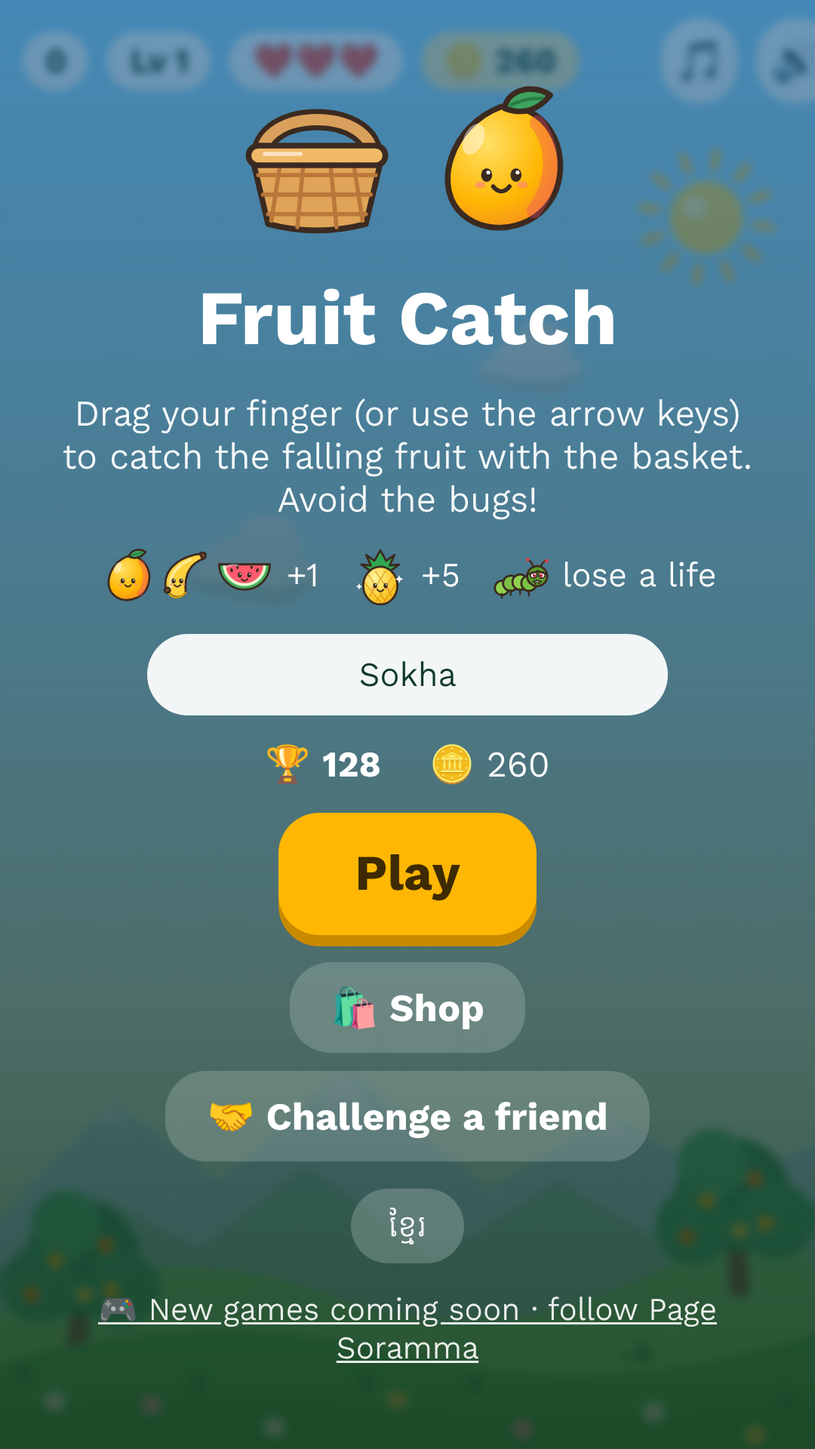
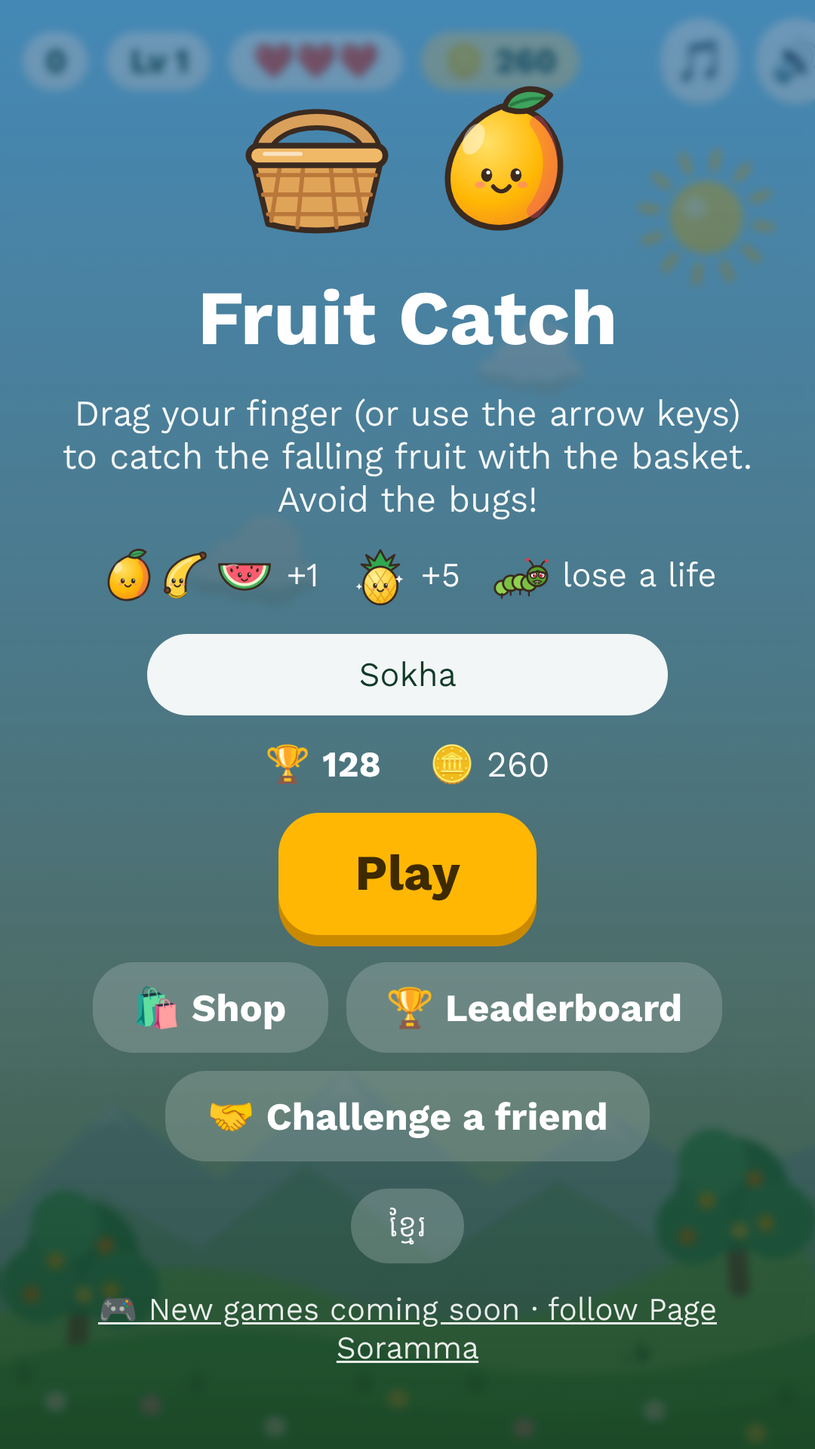
Fruit Catch: anonymous leaderboard (rank, level, score, players) with no names (#108)
* Fruit Catch: slower levels (5n(n-1) points), one new creature per level, forest from level 8

Claude-Session: https://claude.ai/code/session_01XaHKd3sUKa9XkETiTC26Do

* Fruit Catch: only the 3 newest creature kinds fall at the same time

Claude-Session: https://claude.ai/code/session_01XaHKd3sUKa9XkETiTC26Do

* Fruit Catch: smoother game, steadier speed-up, evening/night/storm moods with leaves, fireflies, rain, lightning and thunder

Claude-Session: https://claude.ai/code/session_01XaHKd3sUKa9XkETiTC26Do

* Fruit Catch: music tempo rises at every level (96 to 176 bpm)

Claude-Session: https://claude.ai/code/session_01XaHKd3sUKa9XkETiTC26Do

* Fruit Catch: faster mid-levels, rarer creatures at the start, fruit-shower and swarm waves, quicker music

Claude-Session: https://claude.ai/code/session_01XaHKd3sUKa9XkETiTC26Do

* Fruit Catch: only 6 kinds of creature; more of them the deeper you go

Claude-Session: https://claude.ai/code/session_01XaHKd3sUKa9XkETiTC26Do

* Fruit Catch: creatures fall straight and in groups, snake at 280 and dragon at 450 points, clearer drawings, cloudy sky before the storm

Claude-Session: https://claude.ai/code/session_01XaHKd3sUKa9XkETiTC26Do

* Fruit Catch: anonymous leaderboard (rank, level, score, number of players; no names), own place after each game

Claude-Session: https://claude.ai/code/session_01XaHKd3sUKa9XkETiTC26Do

---------

Changed region(s): [[0.0917, 0.6562, 0.8861, 0.75]]

diff --git a/game/public/fruit/index.html b/game/public/fruit/index.html
@@ -52,6 +52,7 @@ canvas{flex:1;width:100%;display:block;position:relative;z-index:2}
 #wrap.playing .sw,#wrap.playing .sun .rays{animation:none}
 #wrap::after{content:"";position:absolute;inset:0;pointer-events:none;z-index:1;opacity:0;transition:opacity 1.5s;background:radial-gradient(ellipse at center,transparent 45%,#000a 100%)}
 #wrap.z2::after{opacity:.5}#wrap.z3::after{opacity:1}
+#tRank{white-space:pre-line}
 </style></head><body>
 <div id="wrap"><div class="cloud c1">☁</div><div class="cloud c2">☁</div><div class="cloud c3">☁</div>
 <div id="stars"></div><div id="moon"></div><div class="sun"><svg viewBox="0 0 80 80"><g class="rays" stroke="#ffc83d" stroke-width="4" stroke-linecap="round"><line x1="40" y1="6" x2="40" y2="14" transform="rotate(0 40 40)"/><line x1="40" y1="6" x2="40" y2="14" transform="rotate(30 40 40)"/><line x1="40" y1="6" x2="40" y2="14" transform="rotate(60 40 40)"/><line x1="40" y1="6" x2="40" y2="14" transform="rotate(90 40 40)"/><line x1="40" y1="6" x2="40" y2="14" transform="rotate(120 40 40)"/><line x1="40" y1="6" x2="40" y2="14" transform="rotate(150 40 40)"/><line x1="40" y1="6" x2="40" y2="14" transform="rotate(180 40 40)"/><line x1="40" y1="6" x2="40" y2="14" transform="rotate(210 40 40)"/><line x1="40" y1="6" x2="40" y2="14" transform="rotate(240 40 40)"/><line x1="40" y1="6" x2="40" y2="14" transform="rotate(270 40 40)"/><line x1="40" y1="6" x2="40" y2="14" transform="rotate(300 40 40)"/><line x1="40" y1="6" x2="40" y2="14" transform="rotate(330 40 40)"/></g><circle cx="40" cy="40" r="19" fill="#ffd84d"/><circle cx="34" cy="35" r="6" fill="#fff6c2" opacity=".7"/></svg></div>
@@ -73,9 +74,10 @@ canvas{flex:1;width:100%;display:block;position:relative;z-index:2}
 </svg>
 <canvas id="c"></canvas>
 <div id="hud"><span id="sc">0</span><span id="lv">Lv 1</span><span id="li">❤❤❤</span><span id="goal" class="hide">🎯</span><span id="coin">🪙 0</span><span class="sp"></span><button class="btn" id="bm" aria-label="music">🎵</button><button class="btn" id="bs" aria-label="sound">🔊</button><button class="btn" id="bp" aria-label="pause">⏸</button></div>
-<div class="ov" id="ovStart"><div id="logo" style="height:72px"></div><h1 id="tTitle"></h1><div class="chal hide" id="tChal"></div><p id="tHow"></p><div class="legend" id="tLeg"></div><input id="nm0" maxlength="14" autocomplete="off"><div>🏆 <b id="best">0</b> &nbsp;&nbsp; <span id="coinH">🪙 0</span></div><button class="big" id="go"></button><div class="row"><button class="big sec" id="shopB"></button><button class="big sec" id="chb"></button></div><button class="sm" id="lang"></button><div style="font-size:14px;opacity:.9" id="soon"></div></div>
+<div class="ov" id="ovStart"><div id="logo" style="height:72px"></div><h1 id="tTitle"></h1><div class="chal hide" id="tChal"></div><p id="tHow"></p><div class="legend" id="tLeg"></div><input id="nm0" maxlength="14" autocomplete="off"><div>🏆 <b id="best">0</b> &nbsp;&nbsp; <span id="coinH">🪙 0</span></div><button class="big" id="go"></button><div class="row"><button class="big sec" id="shopB"></button><button class="big sec" id="lb"></button><button class="big sec" id="chb"></button></div><button class="sm" id="lang"></button><div style="font-size:14px;opacity:.9" id="soon"></div></div>
 <div class="ov hide" id="ovShop"><h1 id="tShop"></h1><div id="coinS" class="chal"></div><svg id="tree" viewBox="0 0 340 250" xmlns="http://www.w3.org/2000/svg"></svg><div id="upg"></div><button class="big" id="shopBack"></button></div>
 <div class="ov hide" id="ovPause"><h1 id="tPause"></h1><button class="big" id="resume"></button><button class="sm" id="homeP"></button></div>
+<div class="ov hide" id="ovLB"><h1 id="tLB"></h1><p id="lbN"></p><div class="tabs" id="lbTabs"><button data-p="day"></button><button data-p="week"></button><button data-p="all"></button></div><ul id="lbList"></ul><p id="lbMe"></p><button class="big" id="lbBack"></button></div>
 <div class="ov hide" id="ovEnd"><h1 id="tOver"></h1><div class="score" id="fs">0</div><p id="tBest"></p><div id="tCoin"></div><div class="chal hide" id="tRes"></div><p id="tRank"></p><input id="nm" maxlength="14" autocomplete="off"><button class="big sec" id="cont" style="display:none"></button><button class="big" id="again"></button><div class="row" id="pms"></div><div class="row"><button class="sm" id="share"></button><button class="sm" id="homeB"></button></div></div>
 </div>
 <div id="toast"></div>
@@ -85,8 +87,8 @@ canvas{flex:1;width:100%;display:block;position:relative;z-index:2}
 function spr(k){if(!k)return null;if(SPC[k])return SPC[k];var i=SPR[k];return i&&i.complete&&i.naturalWidth?i:null}
 function ai(k){return'<img alt="" width="26" height="26" style="vertical-align:middle" src="'+artUrl(k)+'">'}
 window.addEventListener("DOMContentLoaded",function(){var l=document.getElementById("logo");if(l)l.innerHTML='<img alt="" height="72" style="margin:0 4px" src="'+artUrl("basket")+'"><img alt="" height="72" style="margin:0 4px" src="'+artUrl("mango")+'">'});
-var TX={km:{title:"ចាប់ផ្លែឈើ",how:"អូសម្រាមដៃ (ឬចុចព្រួញ) ឲ្យកញ្ជើ (ឡើងចុះបាន) ចាប់ផ្លែឈើដែលជ្រុះ។ ជៀសដង្កូវ!",ok:"+1",gold:"+5",bad:"បាត់ជីវិត",go:"ចាប់ផ្តើម",again:"លេងម្តងទៀត",pause:"ផ្អាក",resume:"បន្ត",over:"ចប់ហើយ!",best:"ពិន្ទុខ្ពស់បំផុត",newbest:"កំណត់ត្រាថ្មី! 🎉",share:"ចែករំលែកពិន្ទុ",st:"ពិន្ទុរបស់ខ្ញុំ {n} ក្នុងហ្គេម ចាប់ផ្លែឈើ! តើអ្នកអាចឈ្នះខ្ញុំបានទេ?",chal:"🏆 {n} ទទួលបាន {s} ពិន្ទុ! តើអ្នកឈ្នះបានទេ?",win:"🎉 អ្នកឈ្នះ {n}! ({s} ទល់នឹង {o})",tie:"🤝 ស្មើនឹង {n} ({s})!",lose:"{n} នៅមុនអ្នក {d} ពិន្ទុ។ សាកម្តងទៀត!",name:"ឈ្មោះរបស់អ្នក (សម្រាប់ប្រកួត)",friend:"មិត្តរបស់អ្នក",shop:"🛍 ហាង",shopT:"🛍 ហាងធ្វើឲ្យប្រសើរ (ប្រើបានតែ ១ ហ្គេម)",up_l:"ជីវិតបន្ថែម",up_b:"កញ្ចើធំជាង",up_m:"ម៉ាញេទិក",eff_l:"ចាប់ផ្តើមមាន +{n} ជីវិត",eff_b:"កញ្ចើធំជាង {n}%",eff_m:"ទាញផ្លែឈើជិតៗចូលកញ្ចើ",buy:"ទិញ",owned:"បានទិញរួច",need:"កាក់មិនគ្រប់",bought:"បានទិញ!",cont:"បន្តលេង ❤",ovc:"☁ មេឃស្រទុំហើយ... ភ្លៀងជិតមកដល់!",wv1:"🍍 ភ្លៀងផ្លែឈើ! ចាប់ឲ្យបានច្រើន!",wv2:"⚠ ហ្វូងសត្វមកហើយ! ប្រយ័ត្ន!",newc:"⚠ សត្វថ្មីមកដល់!",zn1:"🌅 ល្ងាចហើយ! ចូលព្រៃ ស្លឹកឈើជ្រុះ កាក់ ×{n}",zn2:"🌙 យប់ស្ងាត់! ព្រៃជ្រៅ ពស់មកហើយ កាក់ ×{n}",zn3:"⛈ ព្យុះផ្គរ! ព្រៃងងឹត នាគ (ខាត ២ ❤) កាក់ ×{n}",earned:"បានកាក់ +{n} 🪙",m0:"👏 ពូកែណាស់!",m1:"😎 ឈ្នះខ្ញុំបានទេ!",m2:"🔥 ប្រកួតម្តងទៀត?",m3:"🤝 សូមសំណាងល្អ!",msgline:"💬 {n}៖ {m}",pmHint:"ផ្ញើសារ៖",coinsHave:"កាក់របស់អ្នក",lb:"🏆 តារាងចំណាត់ថ្នាក់",chb:"🤝 ប្រកួតជាមួយមិត្ត",lbT:"តារាងចំណាត់ថ្នាក់",day:"ថ្ងៃនេះ",week:"សប្តាហ៍នេះ",all:"គ្រប់ពេល",back:"ត្រឡប់ក្រោយ",homeB:"🏠 ទំព័រដើម",rank:"🏅 អ្នកលេខ {d} ថ្ងៃនេះ · លេខ {w} សប្តាហ៍នេះ · លេខ {a} គ្រប់ពេល",addname:"សរសេរឈ្មោះខាងក្រោម ដើម្បីប្រកួតជាមួយមិត្ត (មានតែមិត្តដែលអ្នកចែករំលែកទើបឃើញឈ្មោះ)",needc:"កាក់មិនគ្រប់ ខ្វះ {n} 🪙 · លេងបន្ថែមដើម្បីរកកាក់",empty:"មិនទាន់មាននរណាម្នាក់ទេ។ អ្នកអាចជាលេខ ១!",off:"តារាងចំណាត់ថ្នាក់មិនទាន់ដំណើរការ សូមព្យាយាមម្តងទៀត",you:"អ្នក៖ លេខ {r} ({s} ពិន្ទុ)",playfirst:"លេងសិន ដើម្បីប្រកួត",nm0:"ឈ្មោះរបស់អ្នក"},
-en:{title:"Fruit Catch",how:"Drag your finger (or use the arrow keys) to catch the falling fruit with the basket. Avoid the bugs!",ok:"+1",gold:"+5",bad:"lose a life",go:"Play",again:"Play again",pause:"Paused",resume:"Resume",over:"Game over!",best:"Best score",newbest:"New record! 🎉",share:"Share my score",st:"I scored {n} in Fruit Catch! Can you beat me?",chal:"🏆 {n} scored {s}! Can you beat it?",win:"🎉 You beat {n}! ({s} vs {o})",tie:"🤝 A tie with {n} ({s})!",lose:"{n} leads by {d}. Try again!",name:"Your name (for challenges)",friend:"A friend",shop:"🛍 Shop",shopT:"🛍 Upgrade shop (lasts 1 game)",up_l:"Extra lives",up_b:"Bigger basket",up_m:"Magnet",eff_l:"Start with +{n} lives",eff_b:"Basket {n}% bigger",eff_m:"Pulls nearby fruit into the basket",buy:"Buy",owned:"Bought",need:"Not enough coins",bought:"Bought!",cont:"Continue ❤",ovc:"☁ The sky is clouding over... rain is coming!",wv1:"🍍 Fruit shower! Catch them all!",wv2:"⚠ A swarm is coming! Watch out!",newc:"⚠ A new creature appears!",zn1:"🌅 Evening falls! Into the forest, falling leaves, coins ×{n}",zn2:"🌙 A quiet night! Deep forest, snakes appear, coins ×{n}",zn3:"⛈ Storm! Dark jungle, a dragon (costs 2 ❤), thunder, coins ×{n}",earned:"You earned +{n} 🪙",m0:"👏 Great game!",m1:"😎 Beat that!",m2:"🔥 Rematch?",m3:"🤝 Good luck!",msgline:"💬 {n}: {m}",pmHint:"Add a message:",coinsHave:"Your coins",lb:"🏆 Leaderboard",chb:"🤝 Challenge a friend",lbT:"Leaderboard",day:"Today",week:"This week",all:"All time",back:"Back",homeB:"🏠 Home",rank:"🏅 You are #{d} today · #{w} this week · #{a} all time",addname:"Type your name below to challenge friends (only friends you share with will see it)",needc:"Not enough coins, need {n} more 🪙 · keep playing to earn them",empty:"Nobody yet. You could be #1!",off:"The leaderboard is not available right now. Try again later.",you:"You: #{r} ({s} points)",playfirst:"Play first to challenge",nm0:"Your name"}};
+var TX={km:{title:"ចាប់ផ្លែឈើ",how:"អូសម្រាមដៃ (ឬចុចព្រួញ) ឲ្យកញ្ជើ (ឡើងចុះបាន) ចាប់ផ្លែឈើដែលជ្រុះ។ ជៀសដង្កូវ!",ok:"+1",gold:"+5",bad:"បាត់ជីវិត",go:"ចាប់ផ្តើម",again:"លេងម្តងទៀត",pause:"ផ្អាក",resume:"បន្ត",over:"ចប់ហើយ!",best:"ពិន្ទុខ្ពស់បំផុត",newbest:"កំណត់ត្រាថ្មី! 🎉",share:"ចែករំលែកពិន្ទុ",st:"ពិន្ទុរបស់ខ្ញុំ {n} ក្នុងហ្គេម ចាប់ផ្លែឈើ! តើអ្នកអាចឈ្នះខ្ញុំបានទេ?",chal:"🏆 {n} ទទួលបាន {s} ពិន្ទុ! តើអ្នកឈ្នះបានទេ?",win:"🎉 អ្នកឈ្នះ {n}! ({s} ទល់នឹង {o})",tie:"🤝 ស្មើនឹង {n} ({s})!",lose:"{n} នៅមុនអ្នក {d} ពិន្ទុ។ សាកម្តងទៀត!",name:"ឈ្មោះរបស់អ្នក (សម្រាប់ប្រកួត)",friend:"មិត្តរបស់អ្នក",shop:"🛍 ហាង",shopT:"🛍 ហាងធ្វើឲ្យប្រសើរ (ប្រើបានតែ ១ ហ្គេម)",up_l:"ជីវិតបន្ថែម",up_b:"កញ្ចើធំជាង",up_m:"ម៉ាញេទិក",eff_l:"ចាប់ផ្តើមមាន +{n} ជីវិត",eff_b:"កញ្ចើធំជាង {n}%",eff_m:"ទាញផ្លែឈើជិតៗចូលកញ្ចើ",buy:"ទិញ",owned:"បានទិញរួច",need:"កាក់មិនគ្រប់",bought:"បានទិញ!",cont:"បន្តលេង ❤",ovc:"☁ មេឃស្រទុំហើយ... ភ្លៀងជិតមកដល់!",wv1:"🍍 ភ្លៀងផ្លែឈើ! ចាប់ឲ្យបានច្រើន!",wv2:"⚠ ហ្វូងសត្វមកហើយ! ប្រយ័ត្ន!",newc:"⚠ សត្វថ្មីមកដល់!",zn1:"🌅 ល្ងាចហើយ! ចូលព្រៃ ស្លឹកឈើជ្រុះ កាក់ ×{n}",zn2:"🌙 យប់ស្ងាត់! ព្រៃជ្រៅ ពស់មកហើយ កាក់ ×{n}",zn3:"⛈ ព្យុះផ្គរ! ព្រៃងងឹត នាគ (ខាត ២ ❤) កាក់ ×{n}",earned:"បានកាក់ +{n} 🪙",m0:"👏 ពូកែណាស់!",m1:"😎 ឈ្នះខ្ញុំបានទេ!",m2:"🔥 ប្រកួតម្តងទៀត?",m3:"🤝 សូមសំណាងល្អ!",msgline:"💬 {n}៖ {m}",pmHint:"ផ្ញើសារ៖",coinsHave:"កាក់របស់អ្នក",lb:"🏆 តារាងចំណាត់ថ្នាក់",chb:"🤝 ប្រកួតជាមួយមិត្ត",lbT:"តារាងចំណាត់ថ្នាក់",day:"ថ្ងៃនេះ",week:"សប្តាហ៍នេះ",all:"គ្រប់ពេល",back:"ត្រឡប់ក្រោយ",homeB:"🏠 ទំព័រដើម",rank:"🏅 លេខ {d}/{nd} ថ្ងៃនេះ · {w}/{nw} សប្តាហ៍នេះ · {a}/{na} គ្រប់ពេល",lbn:"👥 អ្នកលេង {n} នាក់",player:"អ្នកលេង",you0:"អ្នក",addname:"សរសេរឈ្មោះខាងក្រោម ដើម្បីឃើញឈ្មោះអ្នកក្នុងតារាង និងប្រកួតជាមួយមិត្ត (អ្នកដទៃមិនឃើញឈ្មោះអ្នកទេ)",needc:"កាក់មិនគ្រប់ ខ្វះ {n} 🪙 · លេងបន្ថែមដើម្បីរកកាក់",empty:"មិនទាន់មាននរណាម្នាក់ទេ។ អ្នកអាចជាលេខ ១!",off:"តារាងចំណាត់ថ្នាក់មិនទាន់ដំណើរការ សូមព្យាយាមម្តងទៀត",you:"អ្នក៖ លេខ {r} ({s} ពិន្ទុ)",playfirst:"លេងសិន ដើម្បីប្រកួត",nm0:"ឈ្មោះរបស់អ្នក"},
+en:{title:"Fruit Catch",how:"Drag your finger (or use the arrow keys) to catch the falling fruit with the basket. Avoid the bugs!",ok:"+1",gold:"+5",bad:"lose a life",go:"Play",again:"Play again",pause:"Paused",resume:"Resume",over:"Game over!",best:"Best score",newbest:"New record! 🎉",share:"Share my score",st:"I scored {n} in Fruit Catch! Can you beat me?",chal:"🏆 {n} scored {s}! Can you beat it?",win:"🎉 You beat {n}! ({s} vs {o})",tie:"🤝 A tie with {n} ({s})!",lose:"{n} leads by {d}. Try again!",name:"Your name (for challenges)",friend:"A friend",shop:"🛍 Shop",shopT:"🛍 Upgrade shop (lasts 1 game)",up_l:"Extra lives",up_b:"Bigger basket",up_m:"Magnet",eff_l:"Start with +{n} lives",eff_b:"Basket {n}% bigger",eff_m:"Pulls nearby fruit into the basket",buy:"Buy",owned:"Bought",need:"Not enough coins",bought:"Bought!",cont:"Continue ❤",ovc:"☁ The sky is clouding over... rain is coming!",wv1:"🍍 Fruit shower! Catch them all!",wv2:"⚠ A swarm is coming! Watch out!",newc:"⚠ A new creature appears!",zn1:"🌅 Evening falls! Into the forest, falling leaves, coins ×{n}",zn2:"🌙 A quiet night! Deep forest, snakes appear, coins ×{n}",zn3:"⛈ Storm! Dark jungle, a dragon (costs 2 ❤), thunder, coins ×{n}",earned:"You earned +{n} 🪙",m0:"👏 Great game!",m1:"😎 Beat that!",m2:"🔥 Rematch?",m3:"🤝 Good luck!",msgline:"💬 {n}: {m}",pmHint:"Add a message:",coinsHave:"Your coins",lb:"🏆 Leaderboard",chb:"🤝 Challenge a friend",lbT:"Leaderboard",day:"Today",week:"This week",all:"All time",back:"Back",homeB:"🏠 Home",rank:"🏅 #{d} of {nd} today · #{w} of {nw} this week · #{a} of {na} all time",lbn:"👥 {n} players",player:"Player",you0:"You",addname:"Type your name below to see it on the board and challenge friends (other players never see your name)",needc:"Not enough coins, need {n} more 🪙 · keep playing to earn them",empty:"Nobody yet. You could be #1!",off:"The leaderboard is not available right now. Try again later.",you:"You: #{r} ({s} points)",playfirst:"Play first to challenge",nm0:"Your name"}};
 function ld(k,d){try{var v=localStorage.getItem(k);return v==null?d:JSON.parse(v)}catch(e){return d}}function sv(k,v){try{localStorage.setItem(k,JSON.stringify(v))}catch(e){}}
 var COINS=ld("fc_coins",0),UP=ld("fc_up",{l:0,b:0,m:0}),PM=ld("fc_pm",-1),PRICES={l:[80,120,180],b:[150,225,330],m:[220,330,480]},BC={l:0,b:0,m:0},CONTP=[80,120,200],MR=[0,90,150,220];
 UP={l:Math.max(0,Math.min(3,UP.l|0)),b:Math.max(0,Math.min(3,UP.b|0)),m:Math.max(0,Math.min(3,UP.m|0))};
@@ -102,8 +104,14 @@ function api(p,o){return fetch(p,o).then(function(x){return x.json().then(functi
 function myVid(){return window.GT&&GT.vid||""}
 function setName(v){NM=cleanName(v);sv("fc_name",NM);$("nm").value=NM;$("nm0").value=NM;submitScore()}
 var LAST=null;
-function submitScore(){if(!NM||!LAST||LAST.sent||LAST.score<1)return;LAST.sent=1;
- api("/api/score",{method:"POST",headers:{"content-type":"application/json"},body:JSON.stringify({game:"fruit",vid:myVid(),name:NM,score:LAST.score,t:LAST.t})}).then(function(r){if(r.s!==200)LAST.sent=0}).catch(function(){LAST.sent=0})}
+function showLB(per){var L=$("lbList");L.innerHTML="";$("lbMe").textContent="";$("lbN").textContent="";var tb=$("lbTabs").children;for(var i=0;i<3;i++)tb[i].classList.toggle("on",tb[i].getAttribute("data-p")===per);
+ api("/api/top?game=fruit&period="+per+"&vid="+encodeURIComponent(myVid())).then(function(r){if(r.s!==200){$("lbMe").textContent=t("off");return}
+  $("lbN").textContent=t("lbn",{n:r.j.total||0});if(!r.j.top.length){$("lbMe").textContent=t("empty");return}
+  r.j.top.forEach(function(x,i){var li=document.createElement("li");if(x.me)li.className="me";var md=["🥇","🥈","🥉"][i]||"#"+(i+1),who=x.me?"⭐ "+(NM||t("you0")):'<i style="display:inline-block;width:22px;height:22px;line-height:22px;border-radius:50%;background:#ffffff33;text-align:center;font-style:normal;margin-right:6px">?</i>'+t("player");
+   li.innerHTML="<b>"+md+"</b><span>"+who+"</span><em>Lv "+levelFor(x.score)+" · "+x.score+"</em>";L.appendChild(li)});
+  if(r.j.me&&r.j.me.rank>10)$("lbMe").textContent=t("you",{r:r.j.me.rank,s:r.j.me.score})+" · Lv "+levelFor(r.j.me.score)}).catch(function(){$("lbMe").textContent=t("off")})}
+function submitScore(){if(!LAST||LAST.sent||LAST.score<1)return;LAST.sent=1;
+ api("/api/score",{method:"POST",headers:{"content-type":"application/json"},body:JSON.stringify({game:"fruit",vid:myVid(),name:NM,score:LAST.score,t:LAST.t})}).then(function(r){if(r.s===200){var k=r.j.ranks;$("tRank").textContent=t("rank",{d:k.day.rank,nd:k.day.total,w:k.week.rank,nw:k.week.total,a:k.all.rank,na:k.all.total})+(NM?"":"\n"+t("addname"))}else LAST.sent=0}).catch(function(){LAST.sent=0})}
 /* ===== coins, upgrade shop (3 upgrades x 3 levels) and ready-made messages ===== */
 var UPS=[{k:"l",e:"❤"},{k:"b",e:"🧺"},{k:"m",e:"🧲"}];
 function toast(m){var e=$("toast");e.textContent=m;e.classList.add("on");clearTimeout(toast.t);toast.t=setTimeout(function(){e.classList.remove("on")},1800)}
@@ -122,7 +130,7 @@ function renderShop(){
 function buy(k){var lv=UP[k];if(lv===undefined||lv>=1)return false;var cost=upPrice(k);if(COINS<cost){toast(t("need"));sfx("bad");return false}
  COINS-=cost;UP[k]=1;BC[k]++;sv("fc_coins",COINS);sv("fc_up",UP);sfx("gold");toast(t("bought"));renderShop();texts();return true}
 function pmRow(){var h="";for(var i=0;i<4;i++)h+='<button class="pm'+(PM===i?' on':'')+'" data-i="'+i+'">'+t("m"+i)+'</button>';$("pms").innerHTML=h}
-function shopTexts(){$("shopB").textContent=t("shop");$("tShop").textContent=t("shopT");$("shopBack").textContent=t("back");$("coin").textContent="🪙 "+COINS;$("coinH").textContent="🪙 "+COINS;pmRow();if(!$("ovShop").classList.contains("hide"))renderShop()}
+function shopTexts(){$("shopB").textContent=t("shop");$("lb").textContent=t("lb");$("tLB").textContent=t("lbT");$("lbBack").textContent=t("back");var tb2=$("lbTabs").children;for(var q2=0;q2<3;q2++)tb2[q2].textContent=t(["day","week","all"][q2]);$("tShop").textContent=t("shopT");$("shopBack").textContent=t("back");$("coin").textContent="🪙 "+COINS;$("coinH").textContent="🪙 "+COINS;pmRow();if(!$("ovShop").classList.contains("hide"))renderShop()}
 function texts(){document.documentElement.lang=LANG;$("tTitle").textContent=t("title");$("tHow").textContent=t("how");$("go").textContent=t("go");$("again").textContent=t("again");$("tPause").textContent=t("pause");$("resume").textContent=t("resume");$("tOver").textContent=t("over");$("share").textContent=t("share");$("lang").textContent=LANG==="km"?"English":"ខ្មែរ";$("soon").textContent=LANG==="km"?"🎮 ហ្គេមថ្មីៗនឹងមកដល់ឆាប់ៗ · តាមដាន Page Soramma":"🎮 New games coming soon · follow Page Soramma";$("best").textContent=BEST;$("bs").textContent=SND?"🔊":"🔇";$("nm").placeholder=t("name");$("nm").value=NM;$("nm0").placeholder=t("nm0");$("nm0").value=NM;$("chb").textContent=BEST>0?t("chb"):t("playfirst");$("homeB").textContent=t("homeB");$("homeP").textContent=t("homeB");chalTexts();$("bm").style.opacity=MUS?1:.45;
  $("tLeg").innerHTML="<span>"+ai("mango")+ai("banana")+ai("watermelon")+" "+t("ok")+"</span><span>"+ai("pineapple")+" "+t("gold")+"</span><span>"+ai("caterpillar")+" "+t("bad")+"</span>";shopTexts()}
 var cv=$("c"),cx=cv.getContext("2d"),W=0,H=0,DPR=1;
@@ -228,6 +236,9 @@ function posY(e){var r=cv.getBoundingClientRect();return(e.touches?e.touches[0].
 var keys={};window.addEventListener("keydown",function(e){keys[e.key]=1;if(e.key===" "&&G.state==="play")pause()});window.addEventListener("keyup",function(e){keys[e.key]=0});
 setInterval(function(){if(G.state==="play"){if(keys.ArrowLeft||keys.a)G.tx-=14;if(keys.ArrowRight||keys.d)G.tx+=14;if(keys.ArrowUp||keys.w)G.ty-=12;if(keys.ArrowDown||keys.s)G.ty+=12;G.ty=Math.max(H*.3,Math.min(H-90,G.ty));G.tx=Math.max(0,Math.min(W,G.tx))}},16);
 function pause(){if(G.state==="play"){G.state="pause";$("ovPause").classList.remove("hide")}else if(G.state==="pause"){G.state="play";$("ovPause").classList.add("hide")}}
+$("lb").onclick=function(){$("ovStart").classList.add("hide");$("ovLB").classList.remove("hide");showLB("day")};
+$("lbTabs").onclick=function(e){var b=e.target.closest("button");if(b)showLB(b.getAttribute("data-p"))};
+$("lbBack").onclick=function(){$("ovLB").classList.add("hide");$("ovStart").classList.remove("hide")};
 $("go").onclick=start;$("again").onclick=start;$("bp").onclick=pause;$("resume").onclick=pause;
 $("bm").onclick=function(){MUS=!MUS;sv("fc_mus",MUS);texts();sfx("tap")};
 $("bs").onclick=function(){SND=!SND;sv("fc_snd",SND);texts();sfx("tap")};

diff --git a/game/public/privacy/index.html b/game/public/privacy/index.html
@@ -20,7 +20,7 @@ p,li{color:var(--fg)}small,.mut{color:var(--mut)}a{color:var(--ac)}
 <ul>
 <li><b>Anonymous visitor ID.</b> A random code made on your phone and saved in the game's storage. It is not linked to your name, phone, account or device identity.</li>
 <li><b>Simple usage counts.</b> Visits, plays, shares and installs, and where the link came from (for example "Facebook"). Counted per day.</li>
-<li><b>Nickname and score (optional).</b> Only if you type a name. It is used for challenging friends. If you share a challenge link, the name and score are inside that link, so anyone who opens it can read them. Only the game owner can read saved scores on the server; other players cannot.</li>
+<li><b>Score, and nickname (optional).</b> Your best score is saved with your anonymous ID even if you type no name. A nickname is only saved if you type one and is used for challenging friends. If you share a challenge link, the name and score are inside that link, so anyone who opens it can read them. Your score is also saved on the server so a public leaderboard can show rank, level and score; the leaderboard never shows any names, other players appear only as "?". Only the game owner can see the saved names.</li>
 <li><b>Game progress on your phone.</b> Coins, best score, language, sound settings and shop items are saved only on your own device. If you clear the browser or app data, they are lost.</li>
 </ul>
 <h2>What we do not collect</h2>
@@ -28,7 +28,7 @@ p,li{color:var(--fg)}small,.mut{color:var(--mut)}a{color:var(--ac)}
 <h2>Where data is kept</h2>
 <p>The website and its small database run on Cloudflare. Cloudflare may process technical request data (such as IP address) to deliver the site and keep it secure, under its own privacy policy. We also use Cloudflare Web Analytics, which counts page views without cookies.</p>
 <h2>Children</h2>
-<p>The games are made to be safe for all ages, including children. We do not knowingly collect personal information from children. There are no chats between players and no public player lists.</p>
+<p>The games are made to be safe for all ages, including children. We do not knowingly collect personal information from children. There are no chats between players, and no list of players' names.</p>
 <h2>Your choices</h2>
 <p>You can stop at any time and clear the game's data in your browser or app settings. To ask us to delete a nickname or score, contact us on our Facebook Page.</p>
 <h2>Changes</h2>
@@ -43,7 +43,7 @@ p,li{color:var(--fg)}small,.mut{color:var(--mut)}a{color:var(--ac)}
 <ul>
 <li><b>លេខសម្គាល់អ្នកទស្សនាអនាមិក។</b> កូដចៃដន្យដែលបង្កើតលើទូរស័ព្ទរបស់អ្នក ហើយរក្សាទុកក្នុងហ្គេម។ វាមិនភ្ជាប់នឹងឈ្មោះ ទូរស័ព្ទ គណនី ឬអត្តសញ្ញាណឧបករណ៍របស់អ្នកទេ។</li>
 <li><b>ចំនួនប្រើប្រាស់សាមញ្ញ។</b> ការចូលមើល ការលេង ការចែករំលែក ការដំឡើង និងប្រភពតំណ (ឧ. "Facebook") រាប់តាមថ្ងៃ។</li>
-<li><b>ឈ្មោះហៅក្រៅ និងពិន្ទុ (ជម្រើស)។</b> តែពេលអ្នកសរសេរឈ្មោះប៉ុណ្ណោះ។ ប្រើសម្រាប់ប្រកួតជាមួយមិត្ត។ បើអ្នកចែករំលែកតំណប្រកួត ឈ្មោះនិងពិន្ទុនឹងនៅក្នុងតំណនោះ ដូច្នេះអ្នកណាបើកតំណអាចអានបាន។ មានតែម្ចាស់ហ្គេមទេដែលអានពិន្ទុដែលរក្សាទុកលើ server បាន អ្នកលេងផ្សេងមិនអាចអានបានទេ។</li>
+<li><b>ពិន្ទុ និងឈ្មោះហៅក្រៅ (ជម្រើស)។</b> ពិន្ទុខ្ពស់បំផុតរក្សាទុកជាមួយលេខអនាមិក ទោះអ្នកមិនសរសេរឈ្មោះក៏ដោយ។ ឈ្មោះរក្សាទុកតែពេលអ្នកសរសេរ ហើយប្រើសម្រាប់ប្រកួតជាមួយមិត្ត។ បើអ្នកចែករំលែកតំណប្រកួត ឈ្មោះនិងពិន្ទុនឹងនៅក្នុងតំណនោះ ដូច្នេះអ្នកណាបើកតំណអាចអានបាន។ ពិន្ទុរបស់អ្នកក៏ត្រូវរក្សាទុកលើ server ដើម្បីបង្ហាញតារាងសាធារណៈ ដែលបង្ហាញតែលេខ កម្រិត និងពិន្ទុ មិនដែលបង្ហាញឈ្មោះទេ អ្នកលេងផ្សេងបង្ហាញជា "?"។ មានតែម្ចាស់ហ្គេមទេដែលឃើញឈ្មោះដែលបានរក្សាទុក។</li>
 <li><b>វឌ្ឍនភាពហ្គេមលើទូរស័ព្ទ។</b> កាក់ ពិន្ទុខ្ពស់បំផុត ភាសា សំឡេង និងរបស់ក្នុងហាង រក្សាទុកលើឧបករណ៍របស់អ្នកប៉ុណ្ណោះ។ បើអ្នកលុប data របស់ browser ឬ app វាបាត់។</li>
 </ul>
 <h2>អ្វីដែលយើងមិនប្រមូល</h2>
@@ -51,7 +51,7 @@ p,li{color:var(--fg)}small,.mut{color:var(--mut)}a{color:var(--ac)}
 <h2>កន្លែងរក្សាទុកទិន្នន័យ</h2>
 <p>គេហទំព័រ និងមូលដ្ឋានទិន្នន័យតូចរបស់វាដំណើរការលើ Cloudflare។ Cloudflare អាចដំណើរការទិន្នន័យបច្ចេកទេសនៃសំណើ (ដូចជាអាសយដ្ឋាន IP) ដើម្បីបញ្ជូនគេហទំព័រ និងរក្សាសុវត្ថិភាព តាមគោលការណ៍ភាពឯកជនរបស់ខ្លួន។ យើងក៏ប្រើ Cloudflare Web Analytics ដែលរាប់ចំនួនមើលទំព័រដោយមិនប្រើ cookies។</p>
 <h2>កុមារ</h2>
-<p>ហ្គេមត្រូវបានបង្កើតឡើងឲ្យមានសុវត្ថិភាពសម្រាប់គ្រប់វ័យ រួមទាំងកុមារ។ យើងមិនប្រមូលព័ត៌មានផ្ទាល់ខ្លួនពីកុមារដោយចេតនាទេ។ គ្មានការឆាតរវាងអ្នកលេង និងគ្មានបញ្ជីអ្នកលេងសាធារណៈ។</p>
+<p>ហ្គេមត្រូវបានបង្កើតឡើងឲ្យមានសុវត្ថិភាពសម្រាប់គ្រប់វ័យ រួមទាំងកុមារ។ យើងមិនប្រមូលព័ត៌មានផ្ទាល់ខ្លួនពីកុមារដោយចេតនាទេ។ គ្មានការឆាតរវាងអ្នកលេង និងគ្មានបញ្ជីឈ្មោះអ្នកលេងទេ។</p>
 <h2>ជម្រើសរបស់អ្នក</h2>
 <p>អ្នកអាចឈប់នៅពេលណាក៏បាន ហើយលុប data របស់ហ្គេមក្នុងការកំណត់ browser ឬ app។ ប្រសិនបើចង់ឲ្យយើងលុបឈ្មោះ ឬពិន្ទុ សូមទាក់ទងតាម Facebook Page របស់យើង។</p>
 <h2>ការផ្លាស់ប្តូរ</h2>

diff --git a/game/tests/home_e2e.js b/game/tests/home_e2e.js
@@ -9,24 +9,34 @@ const ok=(c,m)=>{console.log(c?'PASS':'FAIL',m);if(!c)process.exitCode=1};
  const finish=async(p,score,secs)=>{await p.click('#go');await p.waitForTimeout(150);await p.evaluate(([s,t])=>{FC.G.score=s;FC.G.t=t;FC.G.lives=0;FC.G.items=[];FC.addItem('bad');const it=FC.G.items[0];it.x=FC.G.px;it.y=FC.G.py;FC.step(0.02)},[score,secs]);await p.waitForTimeout(600)};
  // player 1: home page has name, best score, leaderboard, challenge
  const a=await player();await a.goto('http://localhost:8817/fruit/');await a.waitForSelector('#go');
- ok(await a.locator('#nm0').count()===1&&await a.locator('#lb').count()===0&&await a.locator('#chb').count()===1&&await a.locator('#best').count()===1,'home page has: name box, best score, challenge button and NO public leaderboard button');
+ ok(await a.locator('#nm0').count()===1&&await a.locator('#lb').count()===1&&await a.locator('#chb').count()===1&&await a.locator('#best').count()===1,'home page has: name box, best score, leaderboard button, challenge button');
  ok(/Play first/.test(await a.locator('#chb').innerText()),'challenge button asks to play first when there is no score yet');
  await a.fill('#nm0','Sok');await a.locator('#nm0').blur();await a.waitForTimeout(150);
  await finish(a,120,30);
- ok(!/#\d/.test(await a.locator('#tRank').innerText()),'no ranking number is shown to the player');
+ await a.waitForFunction(()=>/of 1/.test(document.getElementById('tRank').innerText),null,{timeout:6000}).catch(async()=>console.log('DEBUG tRank=',JSON.stringify(await a.locator('#tRank').innerText())));ok(/#1 of 1 today/.test(await a.locator('#tRank').innerText()),'after the game the player sees the place and how many players: '+(await a.locator('#tRank').innerText()).split('\n')[0]);
  await a.screenshot({path:'/tmp/sc/home_end.png'});
  // player 2 plays too and beats player 1
  const bb=await player();await bb.goto('http://localhost:8817/fruit/');await bb.waitForSelector('#go');await finish(bb,200,40);
  ok(/Type your name/.test(await bb.locator('#tRank').innerText()),'no name yet: the player is told to type a name to challenge friends');
  await bb.fill('#nm','Dara');await bb.locator('#nm').blur();await bb.waitForTimeout(500);
- ok(!/#\d/.test(await bb.locator('#tRank').innerText()),'still no ranking number after the score is sent');
+ await bb.waitForFunction(()=>/of 2/.test(document.getElementById('tRank').innerText));ok(/#1 of 2 today/.test(await bb.locator('#tRank').innerText()),'player 2 beats player 1: #1 of 2 players: '+(await bb.locator('#tRank').innerText()).split('\n')[0]);
  await a.click('#homeB');await a.waitForTimeout(200);ok(await a.locator('#ovStart:not(.hide)').count()===1,'Home button returns to the home page');
  ok(/Play|Challenge a friend/.test(await a.locator('#chb').innerText())&&!/Play first/.test(await a.locator('#chb').innerText()),'now the challenge button is ready (best score exists)');
  // challenge button shares the best score
  await a.evaluate(()=>{window.__s=[];Object.defineProperty(navigator,'share',{configurable:true,value:d=>{window.__s.push(d.text);return Promise.resolve()}})});await a.click('#chb');await a.waitForTimeout(150);
  ok(/\?c=120&n=Sok&s=ch$/.test(await a.evaluate(()=>window.__s[0]||'')),'challenge button shares the best score with the name: '+await a.evaluate(()=>window.__s[0]));
  // the board works for a brand new phone with no name (view only)
- const c=await player();await c.goto('http://localhost:8817/fruit/');await c.waitForSelector('#go');ok(await c.locator('#lb, #ovLB, #lbList').count()===0&&!/Leaderboard|តារាងចំណាត់ថ្នាក់/.test(await c.locator('body').innerText()),'a visitor sees no public leaderboard and no other players names');
+ // the board: ranks, levels and number of players, but NO names of other players
+ const c=await player();await c.goto('http://localhost:8817/fruit/');await c.waitForSelector('#go');await c.click('#lb');await c.waitForSelector('#lbList li');
+ const rowsTxt=await c.locator('#lbList li').allInnerTexts();
+ ok(rowsTxt.length===2&&/🥇/.test(rowsTxt[0])&&/200/.test(rowsTxt[0])&&/🥈/.test(rowsTxt[1])&&/120/.test(rowsTxt[1]),'a new visitor sees 🥇 200 and 🥈 120 (rank and score): '+rowsTxt.join(' | ').replace(/\n/g,' '));
+ ok(rowsTxt.every(r=>/Lv \d+/.test(r))&&(await c.locator('#lbN').innerText()).includes('2 players'),'each row shows the level, the header says 2 players');
+ ok(!(await c.locator('body').innerHTML()).includes('Dara')&&!/Sok/.test(rowsTxt.join(' ')),'other players names (Dara, Sok) are NOT shown to a visitor');
+ ok(/\?/.test(await c.locator('#lbList li').first().innerHTML())&&await c.locator('#lbList li.me').count()===0,'others appear as "?" Player; none is marked as me');
+ await a.click('#lb');await a.waitForSelector('#lbList li.me');
+ ok((await a.locator('#lbList li.me').innerText()).includes('Sok')&&/#?🥈/.test(await a.locator('#lbList li.me').innerText()),'the player sees HIS OWN row with his own name (Sok, 🥈)');
+ await c.click('#lbTabs button[data-p="all"]');await c.waitForTimeout(300);ok(await c.locator('#lbList li').count()===2,'tabs: today / this week / all time');
+ await c.click('#lbBack');ok(await c.locator('#ovStart:not(.hide)').count()===1,'Back returns to the home page');
  ok(errs.length===0,'no page errors '+errs.join());
  await b.close();srv.kill();
 })();

diff --git a/game/functions/api/[[path]].js b/game/functions/api/[[path]].js
@@ -33,6 +33,7 @@ const dayKey=t=>"d:"+local(t).toISOString().slice(0,10);
 const weekKey=t=>{const d=local(t),m=new Date(Date.UTC(d.getUTCFullYear(),d.getUTCMonth(),d.getUTCDate()-((d.getUTCDay()+6)%7)));return"w:"+m.toISOString().slice(0,10)};
 const periods=t=>({day:dayKey(t),week:weekKey(t),all:"all"});
 const cleanName=x=>String(x==null?"":x).replace(/[^\p{L}\p{M}\p{N} ._-]/gu,"").replace(/\s+/g," ").trim().slice(0,14);
+async function totalOf(db,game,period){const r=await db.prepare("SELECT COUNT(*) c FROM gm_score WHERE game=? AND period=?").bind(game,period).first();return r?r.c:0}
 async function rankOf(db,game,period,score){const r=await db.prepare("SELECT COUNT(*) c FROM gm_score WHERE game=? AND period=? AND score>?").bind(game,period,score).first();return(r?r.c:0)+1}
 async function init(db){if(ready)return;await db.batch(SCHEMA.map(s=>db.prepare(s)));ready=true}
 function same(a,b){a=String(a);b=String(b);if(a.length!==b.length)return false;let r=0;for(let i=0;i<a.length;i++)r|=a.charCodeAt(i)^b.charCodeAt(i);return r===0}
@@ -63,7 +64,7 @@ export async function onRequest(ctx){
     if(route==="score"&&m==="POST"){
       let b={};try{b=JSON.parse((await req.text()).slice(0,2000))}catch(e){return J({error:"bad"},400)}
       const game=clip(b.game||"fruit",24),vid=clip(b.vid,40),name=cleanName(b.name),score=Math.floor(+b.score),secs=+b.t;
-      if(vid.length<8||!name||!(score>=1&&score<=99999)||!(secs>=0))return J({error:"bad"},400);
+      if(vid.length<8||!(score>=1&&score<=99999)||!(secs>=0))return J({error:"bad"},400);
       // a score has to be possible for the time played (about 15 points per second at most)
       if(score>15*secs+10)return J({error:"implausible"},422);
       const t=Date.now(),rk=vid+":s:"+dayKey(t),rr=await db.prepare("SELECT n FROM gm_rate WHERE k=?").bind(rk).first();
@@ -71,20 +72,20 @@ export async function onRequest(ctx){
       await db.prepare("INSERT INTO gm_rate(k,n,ts) VALUES(?,1,?) ON CONFLICT(k) DO UPDATE SET n=n+1,ts=?").bind(rk,t,t).run();
       const P=periods(t),ranks={};
       for(const k of Object.keys(P)){
-        await db.prepare("INSERT INTO gm_score(game,vid,period,name,score,ts) VALUES(?,?,?,?,?,?) ON CONFLICT(game,vid,period) DO UPDATE SET name=excluded.name,ts=CASE WHEN excluded.score>score THEN excluded.ts ELSE ts END,score=MAX(score,excluded.score)").bind(game,vid,P[k],name,score,t).run();
+        await db.prepare("INSERT INTO gm_score(game,vid,period,name,score,ts) VALUES(?,?,?,?,?,?) ON CONFLICT(game,vid,period) DO UPDATE SET name=CASE WHEN excluded.name<>'' THEN excluded.name ELSE name END,ts=CASE WHEN excluded.score>score THEN excluded.ts ELSE ts END,score=MAX(score,excluded.score)").bind(game,vid,P[k],name,score,t).run();
         const mine=await db.prepare("SELECT score FROM gm_score WHERE game=? AND vid=? AND period=?").bind(game,vid,P[k]).first();
-        ranks[k]={rank:await rankOf(db,game,P[k],mine.score),best:mine.score}}
+        ranks[k]={rank:await rankOf(db,game,P[k],mine.score),best:mine.score,total:await totalOf(db,game,P[k])}}
       return J({ok:true,ranks})}
 
     // ---- the leaderboard (top 10 and, if asked, your own place) ----
     if(route==="top"&&m==="GET"){
-      // private: only the owner (secret code) can read the boards. Players never see other players.
-      {const code=env.ADMIN_CODE;if(!code)return J({error:"no_admin_code"},503);if(!same(req.headers.get("x-admin-code")||"",code)){await new Promise(r=>setTimeout(r,400));return J({error:"denied"},401)}}
+      // public board shows NO names: only rank, score and how many players. The owner (secret code) also sees the names.
+      const isAdmin=!!env.ADMIN_CODE&&same(req.headers.get("x-admin-code")||"",env.ADMIN_CODE);
       const game=clip(url.searchParams.get("game")||"fruit",24),per=url.searchParams.get("period")||"all",vid=clip(url.searchParams.get("vid"),40);
       const P=periods(Date.now());if(!P[per])return J({error:"bad"},400);
       const rows=(await db.prepare("SELECT vid,name,score FROM gm_score WHERE game=? AND period=? ORDER BY score DESC,ts ASC LIMIT 10").bind(game,P[per]).all()).results||[];
       let me=null;if(vid.length>=8){const mine=await db.prepare("SELECT score FROM gm_score WHERE game=? AND vid=? AND period=?").bind(game,vid,P[per]).first();if(mine)me={score:mine.score,rank:await rankOf(db,game,P[per],mine.score)}}
-      return J({period:per,top:rows.map(x=>({name:x.name,score:x.score,me:!!vid&&x.vid===vid})),me})}
+      return J({period:per,total:await totalOf(db,game,P[per]),top:rows.map(x=>isAdmin?{name:x.name,score:x.score,me:!!vid&&x.vid===vid}:{score:x.score,me:!!vid&&x.vid===vid}),me})}
 
     // ---- the owner removes a player from the boards (needs the secret code) ----
     if(route==="score-delete"&&m==="POST"){

diff --git a/game/public/admin.html b/game/public/admin.html
@@ -48,7 +48,7 @@ function stats(){var o=window.__owner;
   $("src").innerHTML=d.sources.length?bars(d.sources.map(function(x){return{k:names[x.src]||x.src,c:x.c}}),"c"):'<div class="muted">មិនទាន់មានទិន្នន័យ</div>';
   board()})}
 function board(){fetch("/api/top?game=fruit&period=all",{headers:hdr()}).then(function(r){return r.json()}).then(function(j){var L=$("lb");L.innerHTML="";if(!j.top||!j.top.length){L.innerHTML='<div class="muted">មិនទាន់មាននរណាម្នាក់ក្នុងតារាង</div>';return}
-  j.top.forEach(function(x,i){var d=document.createElement("div");d.className="lb";var a=document.createElement("b"),b=document.createElement("span"),c=document.createElement("i"),k=document.createElement("button");a.textContent="#"+(i+1);b.textContent=x.name;c.textContent=x.score;k.textContent="✕ លុប";
+  j.top.forEach(function(x,i){var d=document.createElement("div");d.className="lb";var a=document.createElement("b"),b=document.createElement("span"),c=document.createElement("i"),k=document.createElement("button");a.textContent="#"+(i+1);b.textContent=x.name||"(គ្មានឈ្មោះ)";c.textContent=x.score;k.textContent="✕ លុប";
    k.onclick=function(){if(!confirm("លុបឈ្មោះ \""+x.name+"\" ចេញពីតារាង?"))return;fetch("/api/score-delete",{method:"POST",headers:{"x-admin-code":CODE,"content-type":"application/json"},body:JSON.stringify({name:x.name})}).then(board)};
    d.appendChild(a);d.appendChild(b);d.appendChild(c);d.appendChild(k);L.appendChild(d)})}).catch(function(){})}
 $("go").onclick=function(){CODE=$("code").value.trim();if(CODE)load()};$("code").onkeydown=function(e){if(e.key==="Enter")$("go").onclick()};

diff --git a/game/tests/host_e2e.js b/game/tests/host_e2e.js
@@ -9,7 +9,7 @@ ok(/Fruit Catch/.test(await p.locator('#tTitle').innerText())&&await p.locator('
 ok(await p.locator('body').innerText().then(t=>!/English Friends/.test(t)),'Fruit Catch does not mention or link to other games');
 await p.fill('#nm0','Sok');await p.locator('#nm0').blur();await p.click('#go');await p.waitForTimeout(150);
 await p.evaluate(()=>{FC.G.score=150;FC.G.t=40;FC.G.lives=0;FC.G.items=[];FC.addItem('bad');const it=FC.G.items[0];it.x=FC.G.px;it.y=FC.G.py;FC.step(0.02)});await p.waitForTimeout(700);
-ok(!/#\d/.test(await p.locator('#tRank').innerText()),'no ranking shown to players on the Fruit Catch address');
+await p.waitForFunction(()=>/#1 of/.test(document.getElementById('tRank').innerText),null,{timeout:8000}).catch(()=>{});ok(/#1 of/.test(await p.locator('#tRank').innerText()),'the place and number of players are shown on the Fruit Catch address: '+(await p.locator('#tRank').innerText()).split('\n')[0]);
 await p.evaluate(()=>{window.__s=[];Object.defineProperty(navigator,'share',{configurable:true,value:d=>{window.__s.push(d.text);return Promise.resolve()}})});await p.click('#share');await p.waitForTimeout(150);
 ok(/^I scored 150 in Fruit Catch! Can you beat me\? http:\/\/fruit\.soramma\.app:8822\/\?c=150&n=Sok&s=ch$/.test(await p.evaluate(()=>window.__s[0]||'')),'challenge links use the Fruit Catch address: '+await p.evaluate(()=>window.__s[0]));
 // English Friends has its own address

diff --git a/game/public/fruit/sw.js b/game/public/fruit/sw.js
@@ -1,4 +1,4 @@
-var C="fc-v24",F=["./","../track.js","index.html","art.js","manifest.json","icon-192.png","icon-512.png"];
+var C="fc-v25",F=["./","../track.js","index.html","art.js","manifest.json","icon-192.png","icon-512.png"];
 self.addEventListener("install",function(e){e.waitUntil(caches.open(C).then(function(c){return c.addAll(F)}));self.skipWaiting()});
 self.addEventListener("activate",function(e){e.waitUntil(caches.keys().then(function(k){return Promise.all(k.filter(function(x){return x!==C}).map(function(x){return caches.delete(x)}))}));self.clients.claim()});
 self.addEventListener("fetch",function(e){var u=new URL(e.request.url);if(e.request.method!=="GET"||u.origin!==location.origin)return;if(u.pathname.indexOf("/api/")===0||u.pathname.indexOf(new URL(self.registration.scope).pathname)!==0)return;e.respondWith(fetch(e.request).then(function(r){var c=r.clone();caches.open(C).then(function(ch){ch.put(e.request,c)});return r}).catch(function(){return caches.match(e.request)}))});

diff --git a/game/README.md b/game/README.md
@@ -36,7 +36,7 @@ Tests: `node tests/gate_test.js` (what is public), `node tests/game_test.js`, `n
 - Tests: `node tests/abc_rec_test.js`.
 
 ## Home page, names and privacy (Fruit Catch)
-- Home page: your name, best score, Play, Shop, 🤝 Challenge a friend (shares your best score as a link). There is NO public leaderboard: players never see other players. Scores are still saved on the server so only the owner can see them on the owner page. A name is only seen by friends who open a challenge link you shared. `/api/top` needs the owner code.
+- Home page: your name, best score, Play, Shop, 🏆 Leaderboard, 🤝 Challenge a friend. The leaderboard (today / this week / all time, top 10) is PUBLIC BUT ANONYMOUS: rows show 🥇🥈🥉/#N, a "?" Player, level (from the score) and score, plus how many players there are; only your own row shows your name. After a game you see your place and the number of players. Every score is saved even with no name; names (if typed) are stored server-side and only the owner sees them (`/api/top` returns names only with the owner code).
 - Scores are sent to `/api/score` after a game if the player typed a name (nickname only). A score must be possible for the time played (max about 15 points per second) and one phone may send 60 per day. Anyone can still forge a request, so this is a friendly board, not a verified contest: do not give money prizes without checking the top scores by hand.
 - Remove a name: `curl -X POST https://play.soramma.app/api/score-delete -H 'x-admin-code: <ADMIN_CODE>' -d '{"name":"BadName"}'`.
 - Cambodia time (UTC+7) decides the day; the week starts on Monday.
